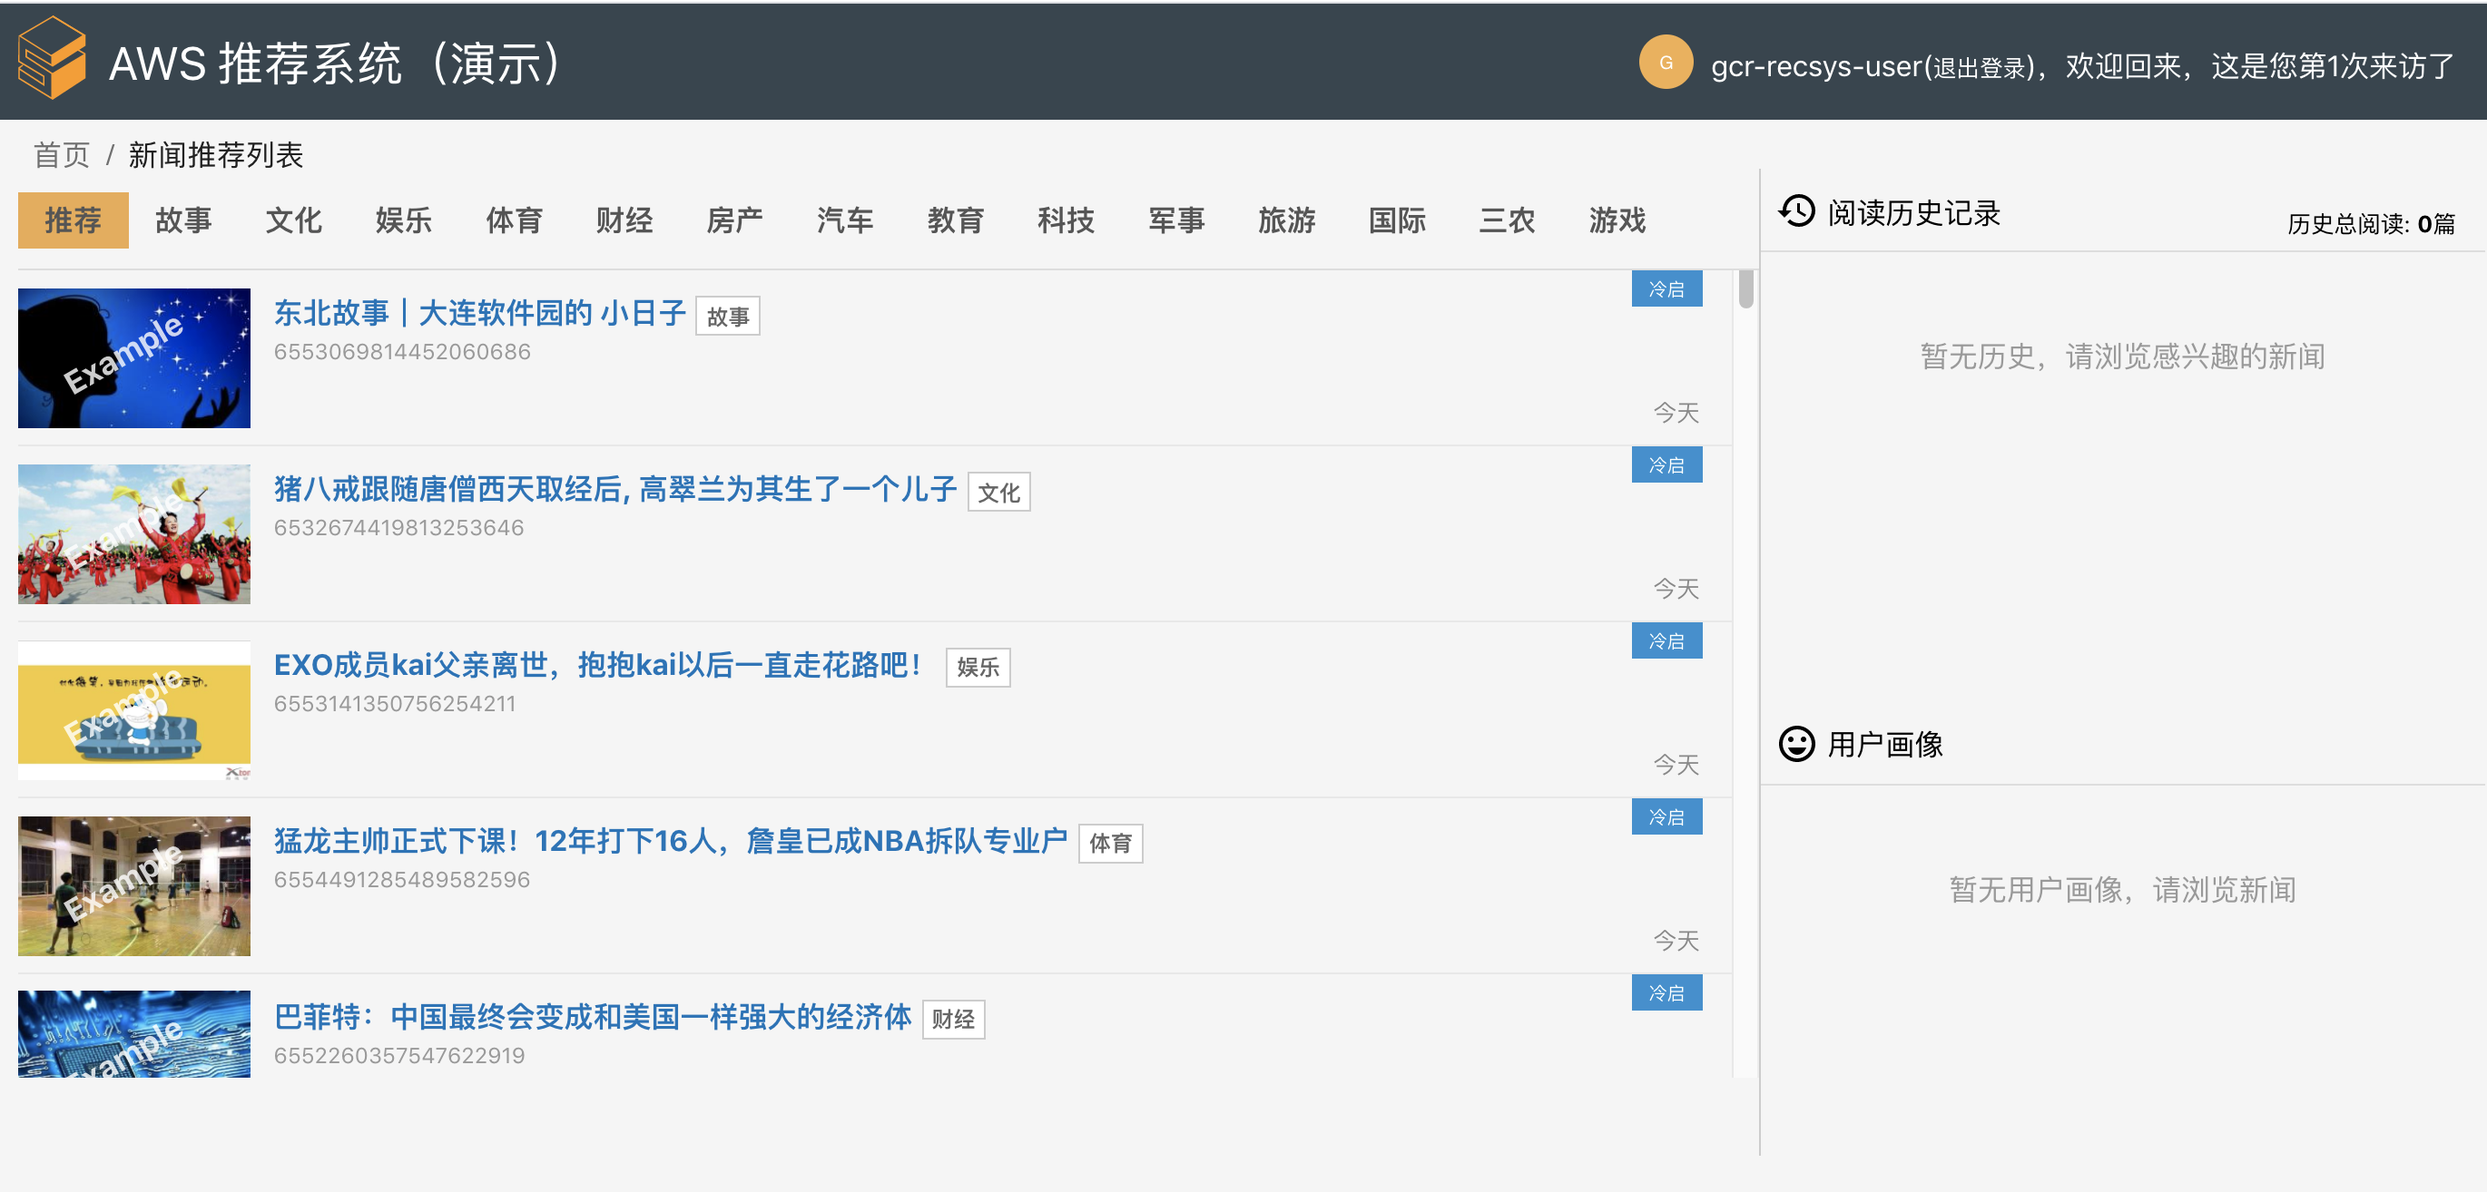
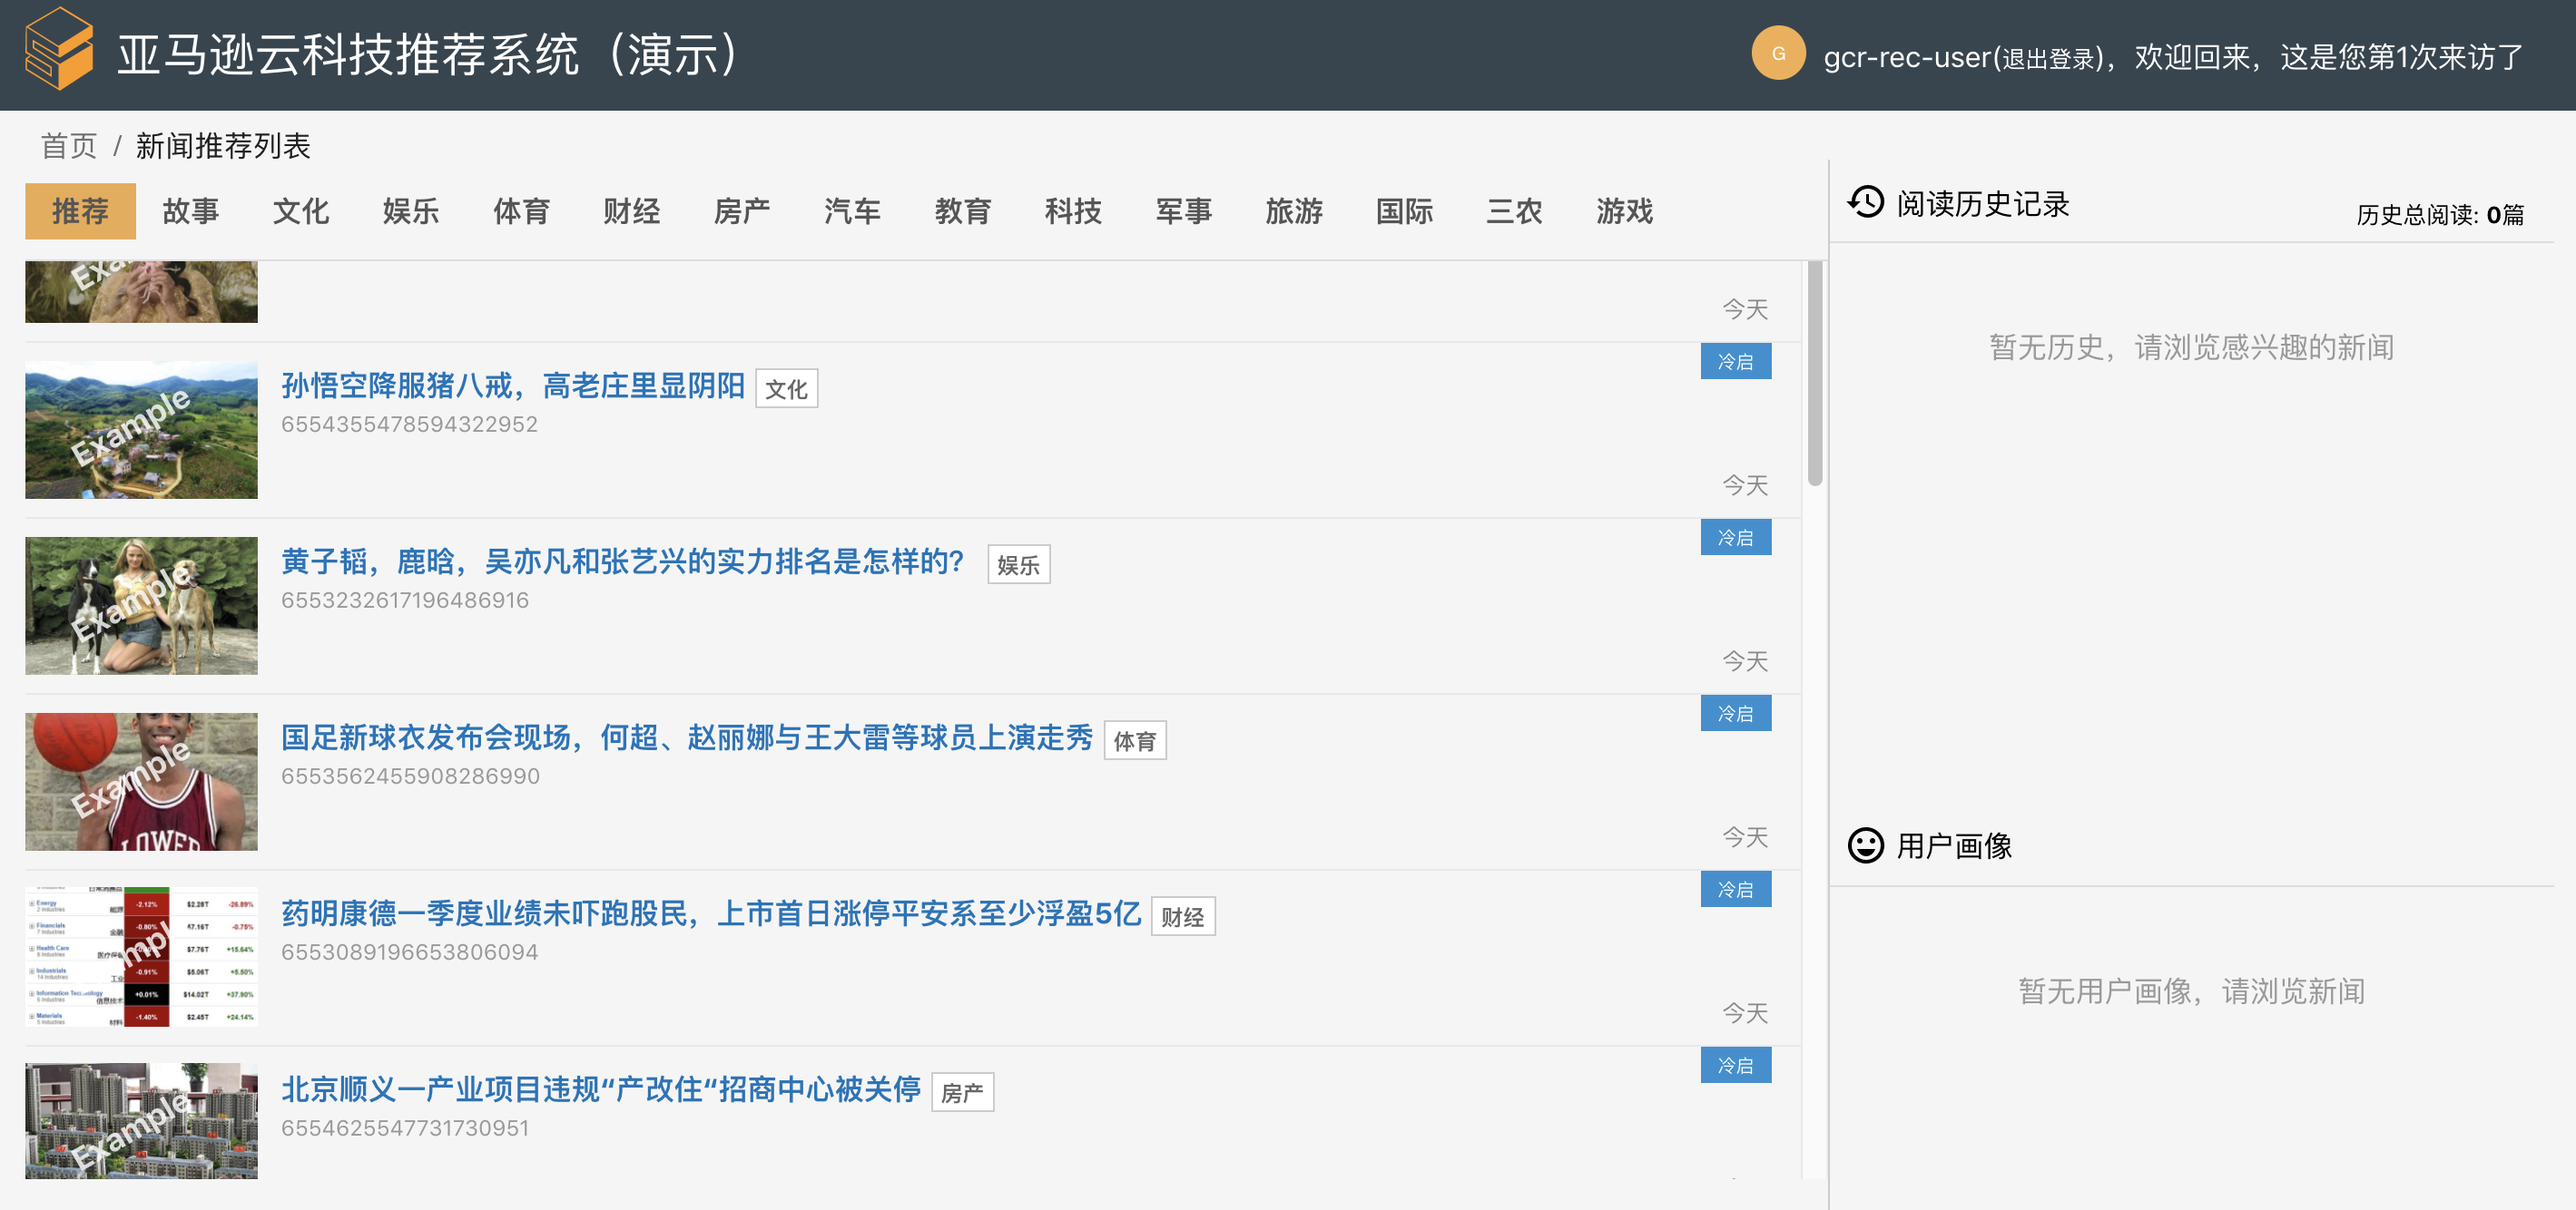
finish browse recommender

diff --git a/docs/experience/2_user/_index.en.md b/docs/experience/2_user/_index.en.md
@@ -20,7 +20,7 @@ Next time, you can input the same name to get recommendations based on the relat
 
 ![Look-Around](/images/look-around.png)
 
-Suppose you login the system as the **gcr-recsys-user**. You will see the following page:
+Suppose you login the system as the **gcr-rec-user**. You will see the following page:
 
 ![Cold-Start](/images/cold-start.png)
 
@@ -40,34 +40,33 @@ Actually, you can navigate different types of news and pick up what you like. Th
 
 ![Different-Types-News](/images/dtn.png)
 
-After clicking at three pieces of news, you will see the recommendating list in the first channel. The recommendating result consists of two parts. The first 
-part is top recommendating according to the most interested type in your portrait. In this example, it seems that **gcr-recsys-user** is very interested in
-the entertainment, the first 2-3 lines of recommendating list are entertainment news:
+After clicking at three pieces of news, you will see the recommendation list in the first channel. The recommendation result consists of two parts. The first 
+part is top recommendation according to the most interested type in your portrait. In this example, it seems that **gcr-rec-user** is very interested in
+the entertainment, the first 2-3 lines of recommendation list are entertainment news:
 
 ![Top-Type-News](/images/top-type-news.png)
 
-The second part is generated from the similar contents of what you clicked. If you click 'recommend' again, you will get another recommendating list:
+The second part is generated from the similar contents of what you clicked. If you click 'recommend' again, you will get another recommendation list:
 
 ![Recommend-type-1](/images/recommend-type-1.png)
-![Recommend-type-2](/images/recommend-type-2.png)
 
 You will also notice that there are scores for the type of news you may like:
 
 ![User-Portrait](/images/user-portrait.png)
 
-If you navigate the recommendating list, you will notice some results with disparity tag. This means the system will push some types of news that you never read to discover the possible interests:
+If you navigate the recommendation list, you will notice some results with disparity tag. This means the system will push some types of news that you never read to discover the possible interests:
 
 ![Disparity](/images/disparity.png)
 
 Now, you know almost everything about this demo. Please feel free to have a try!
 
-## How to generate recommendating list (optional)
+## How to generate recommendation list (optional)
 
 If you have interests in understanding more about the knowledge behind this engine, you can check the following content. 
 
-If it is the first time that you login, the recommendating list will come from cold start logic. And each time you click the news, the user portrait will update.
+If it is the first time that you login, the recommendation list will come from cold start logic. And each time you click the news, the user portrait will update.
 
-If you click news at least 3 times, the recommendating list will come from the a sequence of logic, from recall to filter:
+If you click news at least 3 times, the recommendation list will come from the a sequence of logic, from recall to filter:
 
 ![Application Logic](/images/application-logic.png)
 
